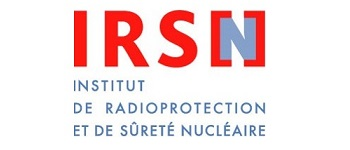
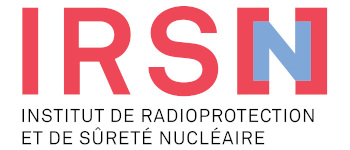
Replacing partners images

diff --git a/index.html b/index.html
@@ -43,7 +43,6 @@
 								<h2>The Cosmic on Air project</h2>
 							</header>
                             <p>The Cosmic on Air project is a citizen science project which aims to collect measurements of dose rate carried out on board airplane by the public to organize and make them available to the scientific community, in particular those which could be carried out during solar flares. These phenomena can significantly increase dose rates at flight altitudes. Solar eruptions are sporadic phenomena and those with a significant effect in terms of dose rate are rare. For this reason, very few measurements on board aircraft have been made, which limits the understanding of these phenomena in the atmosphere.</p> 
-                            <a href="https://www.openradiation.org/en/why-take-measurements-flight">More</a>
                             <br/>
                             
                         </div>
@@ -64,10 +63,9 @@
 						<div class="col-6 col-12-medium">
 							<!--<ul class="major-icons">-->
                             <ul class="icons">
-								<li><span class="image fit"><a href="https://www.irsn.fr/EN"><img src="images/irsn.jpg" alt="IRSN" /></a></span></li>
+								<li><span class="image fit"><a href="https://en.irsn.fr/"><img src="images/irsn.jpg" alt="IRSN" /></a></span></li>
                                 <li><span class="image fit"><a href="https://www.obspm.fr/?lang=en"><img src="images/obspm.png" alt="OBSPM" /></a></span></li>
-                                <li><span class="image fit"><a href="https://www.planete-sciences.org"><img src="images/planete_science.png" alt="Planete Sciences" /></a></span></li>
-								<li><span class="image fit"><a href="https://www.mnhn.fr/en"><img src="images/museum.png" alt="MNHN"/></a></span></li>
+								<li><span class="image fit"><a href="https://uct.ac.za/"><img src="images/uct.png" alt="UCT" /></a></span></li>
                                 <!--<li><span class="icon solid style2 major fa-bolt"></span></li>
 								<li><span class="icon solid style3 major fa-camera-retro"></span></li>
 								<li><span class="icon solid style4 major fa-cog"></span></li>
@@ -81,9 +79,8 @@
 							</header>
                             <p> IRSN The French national Institute of radiological protection and nuclear safety contributes its expertise and technical and operational input to support public authorities. </p>
                             <p> OBSPM Founded in 1667, the Observatoire de Paris is the largest national research center for astronomy. 30 % of all French astronomers are working in it five laboratories and its institute. </p>
-                            <p> PLANETE SCIENCES is a not-for-profit association which aims to promote an interest in, introductions to and the practice of science and techniques targeting 8 to 25 years old. </p>
-                            <p> MNHN The Muséum is a research establishment, educational institution and Muséum rolled into one, a crossroads of knowledge with collections, laboratories and a variety of sites open to the public. Its role? To learn more about nature and protect it. </p>
-						</div>
+							<p> </p>
+                        </div>
 					</div>
 				</div>
 			</section>
@@ -148,6 +145,7 @@
 				<ul class="icons">
 					<li><a href="mailto:cosmic@irsn.fr?subject=[cosmic-on-air.org] Contact form" class="fas icon solid alt fa-envelope"><span class="label">Email us</span></a></li>
 					<li><a href="https://www.youtube.com/@COSMICONAIR" class="fab icon solid alt fa-youtube"><span class="label">YouTube Channel</span></a></li>
+					<li><a href="https://www.youtube.com/watch?v=LLFhKaqnWwk" class="fab icon solid alt fa-instagram"><span class="label">Instagram Account</span></a></li>
 				</ul>
 				<ul class="copyright">
 					<li>&copy; COSMIC-ON-AIR 2024</li><li>Design: <a href="http://html5up.net">HTML5 UP</a></li><li>Logo: Sylvain Cnudde / LESIA OBSPM</li><li>Photo: <a href="https://www.nasa.gov/multimedia/imagegallery/image_feature_1650.html">NASA</a>, <a href="https://pixabay.com/fr/photos/plan-coucher-de-soleil-avion-voyage-1000996/">pixabay.com - Chrisjmit</a></li>
